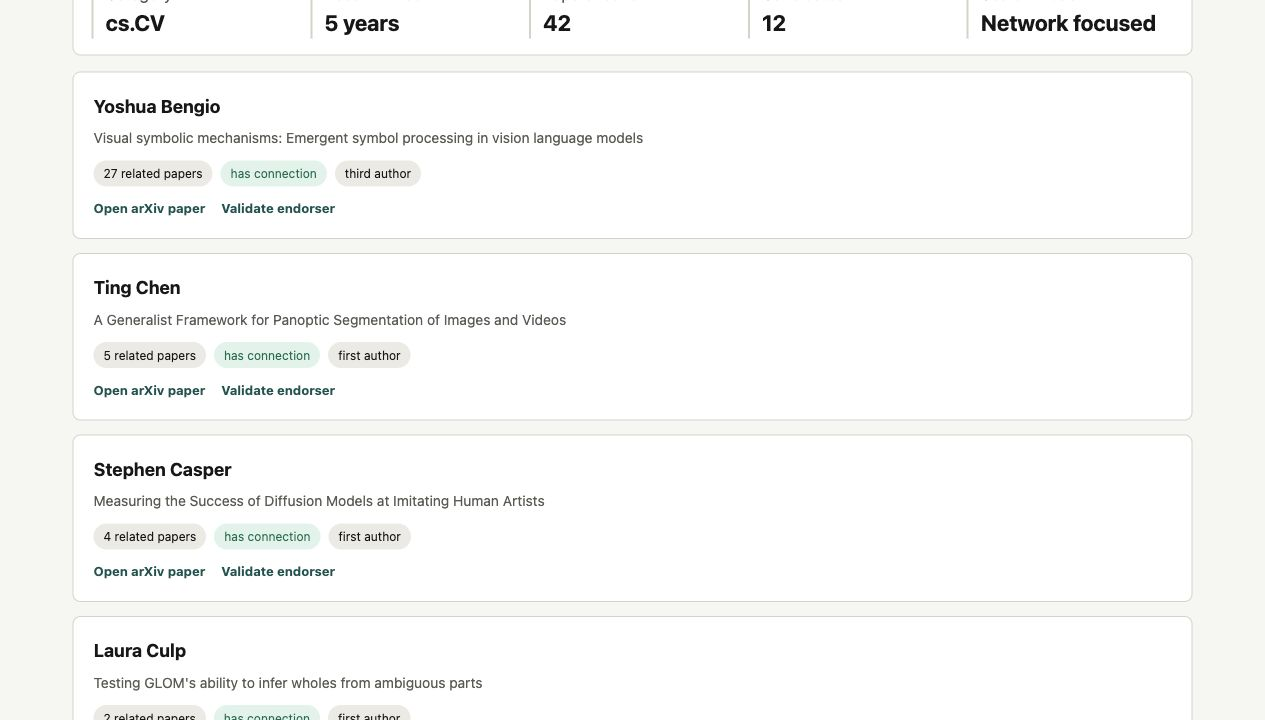
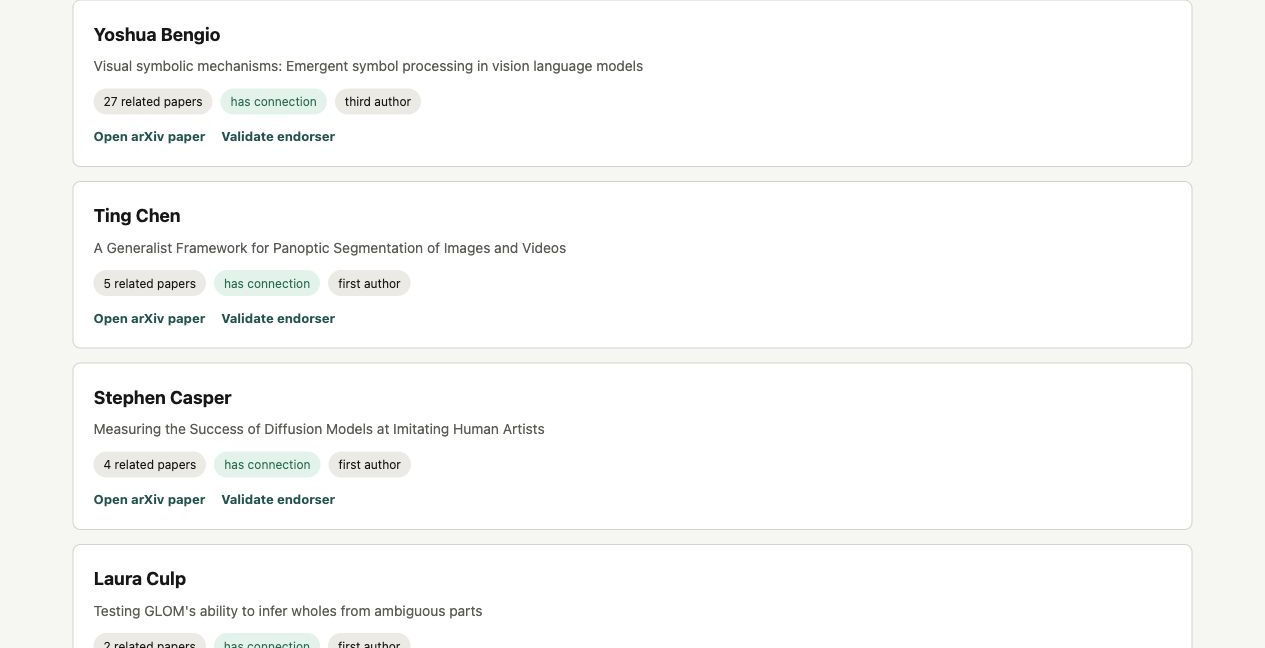
1.0

diff --git a/public/app.js b/public/app.js
@@ -1,4 +1,5 @@
 const form = document.querySelector("#search-form");
+const categoryInput = document.querySelector("#target-category");
 const categoryList = document.querySelector("#category-list");
 const progress = document.querySelector("#progress");
 const summary = document.querySelector("#summary");
@@ -12,7 +13,13 @@ let categories = [];
 loadCategories();
 initRateLimitToggle();
 
+categoryInput.addEventListener("input", () => renderCategorySuggestions(categoryInput.value));
+categoryInput.addEventListener("focus", () => renderCategorySuggestions(categoryInput.value));
+categoryInput.addEventListener("keydown", handleCategoryKeydown);
 rateLimitToggle.addEventListener("change", toggleRateLimit);
+document.addEventListener("click", (event) => {
+  if (!event.target.closest(".category-field")) hideCategorySuggestions();
+});
 
 async function initRateLimitToggle() {
   try {
@@ -50,10 +57,15 @@ form.addEventListener("submit", async (event) => {
   clearOutput();
 
   const payload = Object.fromEntries(new FormData(form).entries());
-  if (!categories.includes(payload.targetCategory)) {
-    showError("Please choose an exact official arXiv category, for example cs.CV or physics.optics.");
+  const targetCategory = resolveCategoryInput(payload.targetCategory);
+  if (!targetCategory) {
+    showError("Please choose an official arXiv category from the suggestions, for example cs.CV or physics.optics.");
+    renderCategorySuggestions(payload.targetCategory);
     return;
   }
+  payload.targetCategory = targetCategory;
+  categoryInput.value = targetCategory;
+  hideCategorySuggestions();
 
   setLoading(true);
   try {
@@ -77,9 +89,6 @@ async function loadCategories() {
     const response = await fetch("/api/categories");
     const data = await response.json();
     categories = data.categories;
-    categoryList.innerHTML = categories
-      .map((category) => `<option value="${escapeHtml(category)}"></option>`)
-      .join("");
   } catch (error) {
     showError("Could not load arXiv categories. Please refresh the page.");
     console.error("Failed to load categories:", error);
@@ -87,7 +96,6 @@ async function loadCategories() {
 }
 
 function renderSummary(data) {
-  const focusLabel = data.searchStrategy.focusedSearch ? "Network focused" : "Category only";
   summary.classList.remove("hidden");
   summary.innerHTML = `
     <div class="summary-item">
@@ -106,11 +114,103 @@ function renderSummary(data) {
       <span>Candidates</span>
       <b>${data.candidates.length}</b>
     </div>
-    <div class="summary-item">
-      <span>Search mode</span>
-      <b>${escapeHtml(focusLabel)}</b>
-    </div>
   `;
+}
+
+function renderCategorySuggestions(value) {
+  const hasQuery = Boolean(normalizeCategorySearch(value));
+  const matches = getCategoryMatches(value).slice(0, hasQuery ? 8 : categories.length);
+  if (!matches.length) {
+    categoryList.innerHTML = "";
+    hideCategorySuggestions();
+    return;
+  }
+
+  categoryList.innerHTML = matches
+    .map(
+      (category) => `
+        <button class="category-option" type="button" role="option" data-category="${escapeAttribute(category)}">
+          <span>${escapeHtml(category)}</span>
+        </button>
+      `
+    )
+    .join("");
+  categoryList.classList.remove("hidden");
+  categoryList.querySelectorAll(".category-option").forEach((option) => {
+    option.addEventListener("click", () => selectCategory(option.dataset.category));
+  });
+}
+
+function hideCategorySuggestions() {
+  categoryList.classList.add("hidden");
+}
+
+function handleCategoryKeydown(event) {
+  if (event.key === "Escape") {
+    hideCategorySuggestions();
+    return;
+  }
+
+  if (event.key !== "Enter") return;
+  const resolved = resolveCategoryInput(categoryInput.value);
+  if (!resolved) return;
+  event.preventDefault();
+  selectCategory(resolved);
+}
+
+function selectCategory(category) {
+  categoryInput.value = category;
+  hideCategorySuggestions();
+  categoryInput.focus();
+}
+
+function resolveCategoryInput(value) {
+  const trimmed = String(value || "").trim();
+  if (categories.includes(trimmed)) return trimmed;
+
+  const normalized = normalizeCategorySearch(trimmed);
+  if (!normalized) return "";
+
+  const exactCompactMatches = categories.filter(
+    (category) => normalizeCategorySearch(category) === normalized
+  );
+  if (exactCompactMatches.length === 1) return exactCompactMatches[0];
+
+  const matches = getCategoryMatches(trimmed);
+  return matches.length === 1 ? matches[0] : "";
+}
+
+function getCategoryMatches(value) {
+  const normalized = normalizeCategorySearch(value);
+  if (!normalized) return categories;
+
+  return categories
+    .map((category) => ({ category, score: getCategoryMatchScore(category, normalized) }))
+    .filter((match) => match.score < 99)
+    .sort((a, b) => a.score - b.score || a.category.localeCompare(b.category))
+    .map((match) => match.category);
+}
+
+function getCategoryMatchScore(category, normalizedQuery) {
+  const normalizedCategory = normalizeCategorySearch(category);
+  const parts = category.toLowerCase().split(".");
+  const primary = normalizeCategorySearch(parts[0]);
+  const secondary = normalizeCategorySearch(parts[1] || "");
+
+  if (normalizedCategory === normalizedQuery) return 0;
+  if (category.toLowerCase() === normalizedQuery) return 1;
+  if (primary === normalizedQuery || secondary === normalizedQuery) return 2;
+  if (secondary.startsWith(normalizedQuery)) return 3;
+  if (primary.startsWith(normalizedQuery)) return 4;
+  if (normalizedCategory.startsWith(normalizedQuery)) return 5;
+  if (normalizedCategory.includes(normalizedQuery)) return 6;
+  return 99;
+}
+
+function normalizeCategorySearch(value) {
+  return String(value || "")
+    .toLowerCase()
+    .replace(/[^a-z0-9]/g, "");
 }
 
 function renderResults(data) {

diff --git a/public/index.html b/public/index.html
@@ -31,20 +31,21 @@
         </div>
 
         <form id="search-form" class="form-grid">
-          <label>
+          <label for="target-category">
             <span>Target category</span>
-            <input
-              id="target-category"
-              name="targetCategory"
-              list="category-list"
-              placeholder="cs.AI"
-              autocomplete="off"
-              required
-            />
-            <datalist id="category-list"></datalist>
+            <div class="category-field">
+              <input
+                id="target-category"
+                name="targetCategory"
+                placeholder="cs.AI"
+                autocomplete="off"
+                required
+              />
+              <div id="category-list" class="category-suggestions hidden" role="listbox"></div>
+            </div>
           </label>
 
-          <label>
+          <label for="max-results">
             <span>Paper budget</span>
             <select id="max-results" name="maxResults">
               <option value="100" selected>100 papers</option>
@@ -54,7 +55,7 @@
             </select>
           </label>
 
-          <label>
+          <label for="connection">
             <span>PI / Senior collaborator <small>optional</small></span>
             <input id="connection" name="connection" placeholder="Full name (e.g. Firstname M. Lastname)" />
           </label>

diff --git a/public/styles.css b/public/styles.css
@@ -163,6 +163,10 @@ small {
   font-weight: 500;
 }
 
+.category-field {
+  position: relative;
+}
+
 input,
 select,
 button {
@@ -184,6 +188,44 @@ input:focus,
 select:focus {
   border-color: var(--accent);
   outline: 3px solid rgba(15, 118, 110, 0.14);
+}
+
+.category-suggestions {
+  position: absolute;
+  z-index: 10;
+  top: calc(100% + 6px);
+  left: 0;
+  right: 0;
+  display: grid;
+  max-height: 300px;
+  overflow-y: auto;
+  border: 1px solid var(--line);
+  border-radius: 8px;
+  background: var(--panel);
+  box-shadow: 0 14px 32px rgba(23, 23, 23, 0.12);
+  padding: 6px;
+}
+
+.category-option {
+  display: flex;
+  grid-column: auto;
+  align-items: center;
+  justify-content: flex-start;
+  min-height: 36px;
+  border: 0;
+  border-radius: 6px;
+  background: transparent;
+  color: var(--text);
+  padding: 7px 10px;
+  text-align: left;
+  font-weight: 700;
+}
+
+.category-option:hover,
+.category-option:focus {
+  background: var(--soft);
+  color: var(--accent-dark);
+  outline: none;
 }
 
 button {
